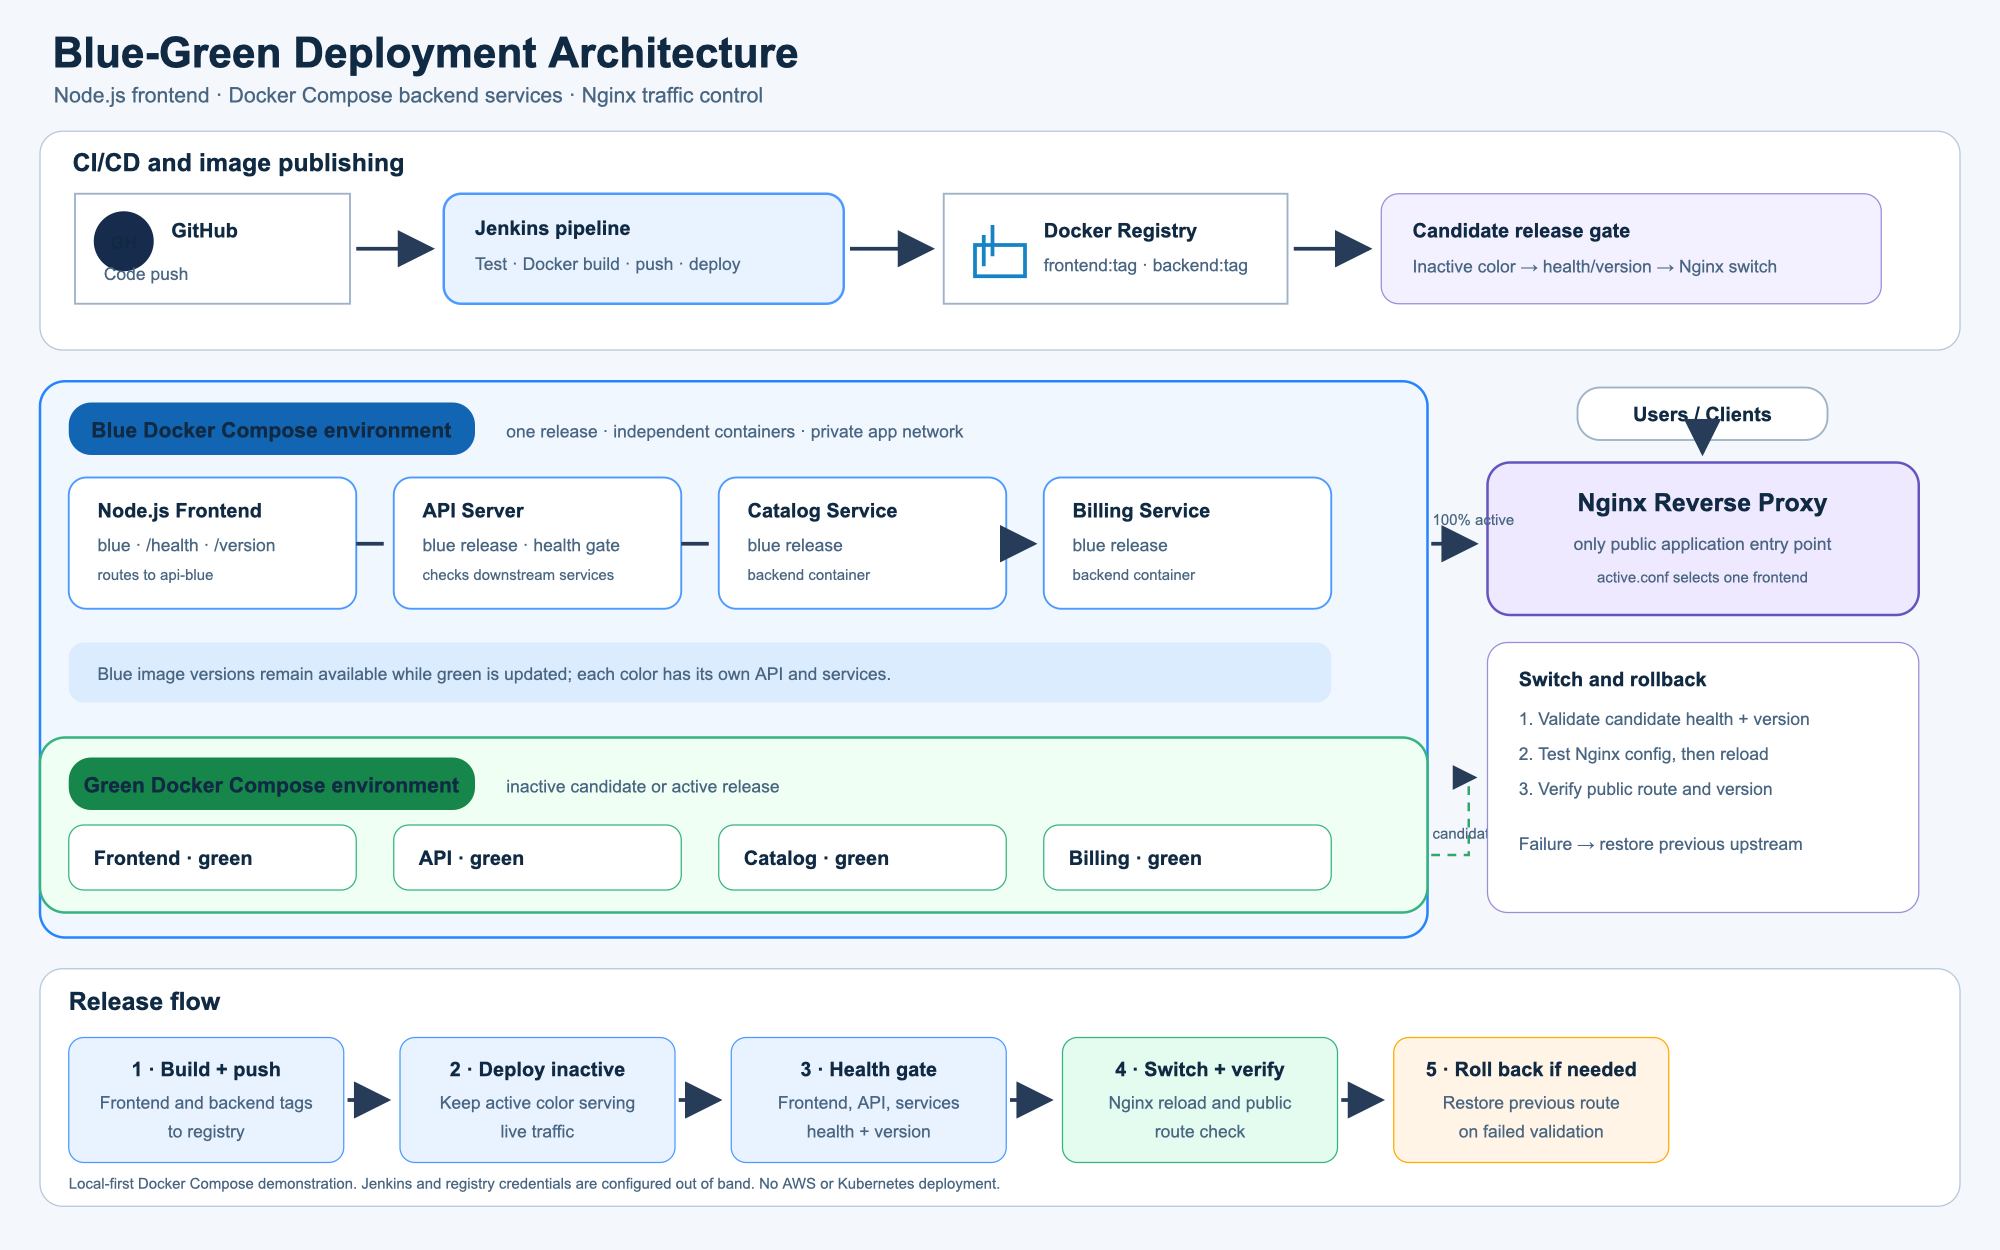
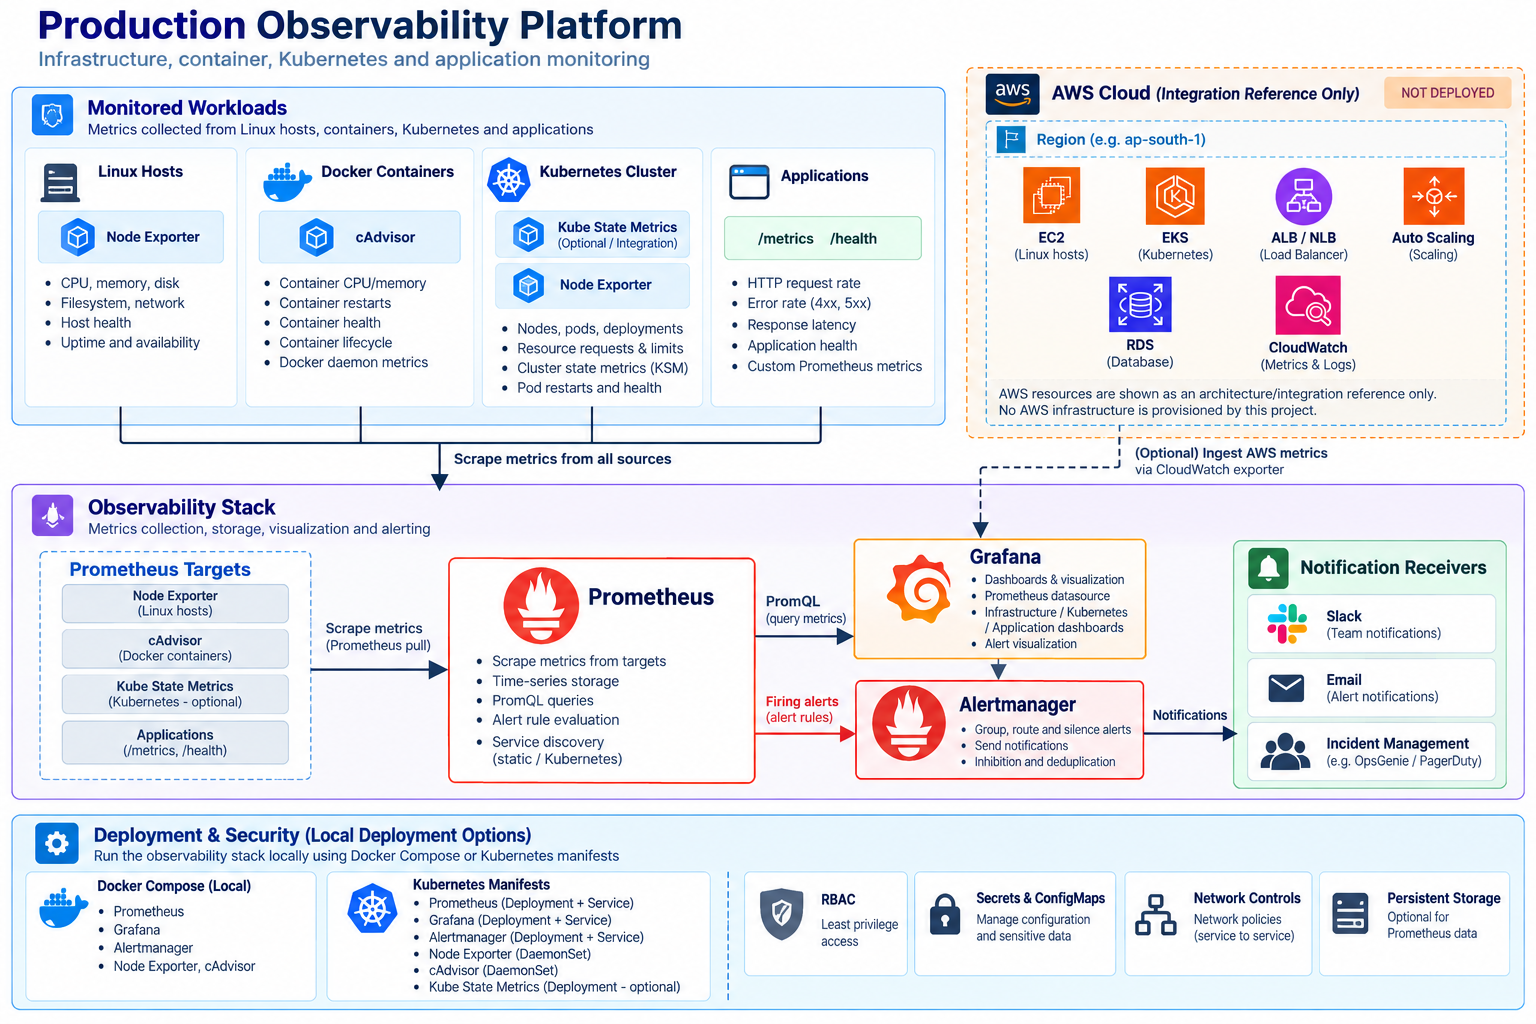
Replace architecture image with supplied diagram

Changed region(s): [[0.0, 0.0, 1.0, 1.0]]

diff --git a/architecture/architecture.md b/architecture/architecture.md
@@ -5,5 +5,3 @@ GitHub starts a Jenkins pipeline that tests the Node.js application, builds sepa
 The frontend calls its same-color API, which checks both same-color services. The promotion script validates health and release identity from inside the candidate stack. Nginx then loads the candidate upstream and reloads gracefully. A post-switch check through the public proxy confirms the expected version; if it fails, the script restores the previous upstream and reloads Nginx.
 
 Only Nginx publishes a host port. The blue/green application services stay on a private Compose network. The Docker API is an application API; this project does not mount the Docker socket. It is a local-first Docker demonstration and does not provision AWS or Kubernetes resources.
-
-The supplied `Project 5` observability diagram is preserved as a [reference image](references/project5-observability-platform.png). It is not the Project 6 deployment diagram; the README continues to use the Docker blue-green architecture.

diff --git a/README.md b/README.md
@@ -2,7 +2,7 @@
 
 A Docker-first blue-green release demonstration. Jenkins tests the Node.js frontend and backend, builds and pushes versioned images, deploys the inactive Docker Compose environment, verifies its frontend/API/services, then reloads Nginx to switch traffic. If post-switch checks fail, the proxy configuration is restored to the previous environment.
 
-![Docker blue-green architecture](architecture/architecture.png)
+![Architecture](architecture/architecture.png)
 
 ## Architecture
 
